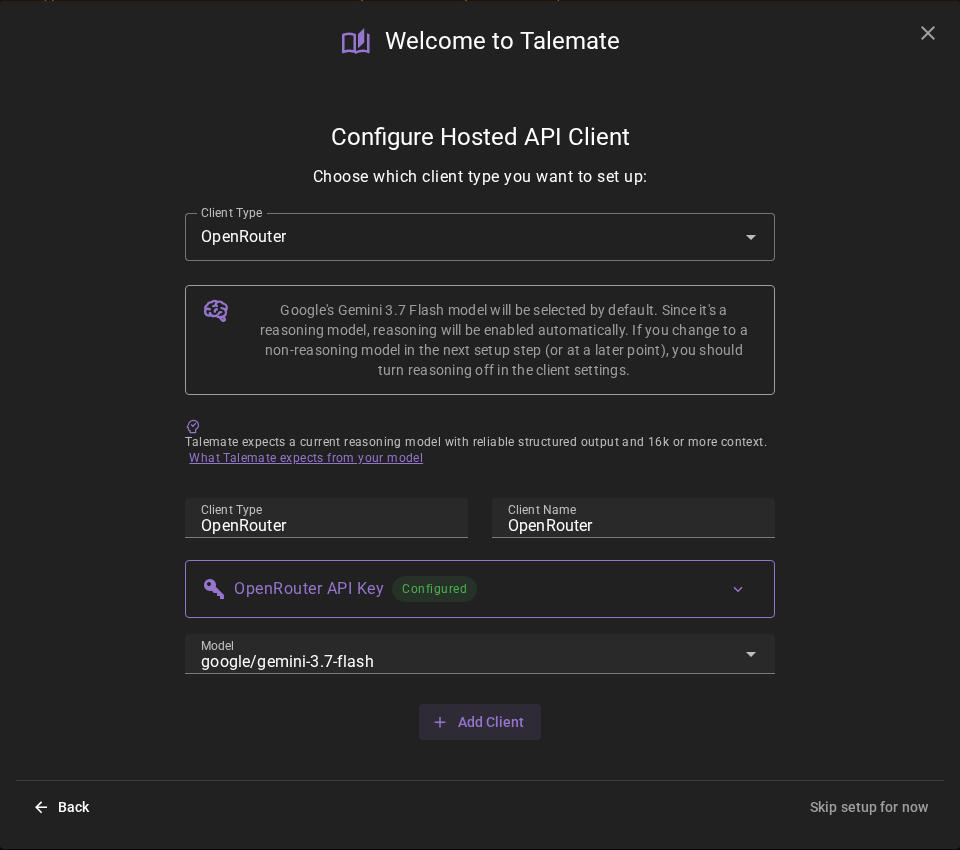
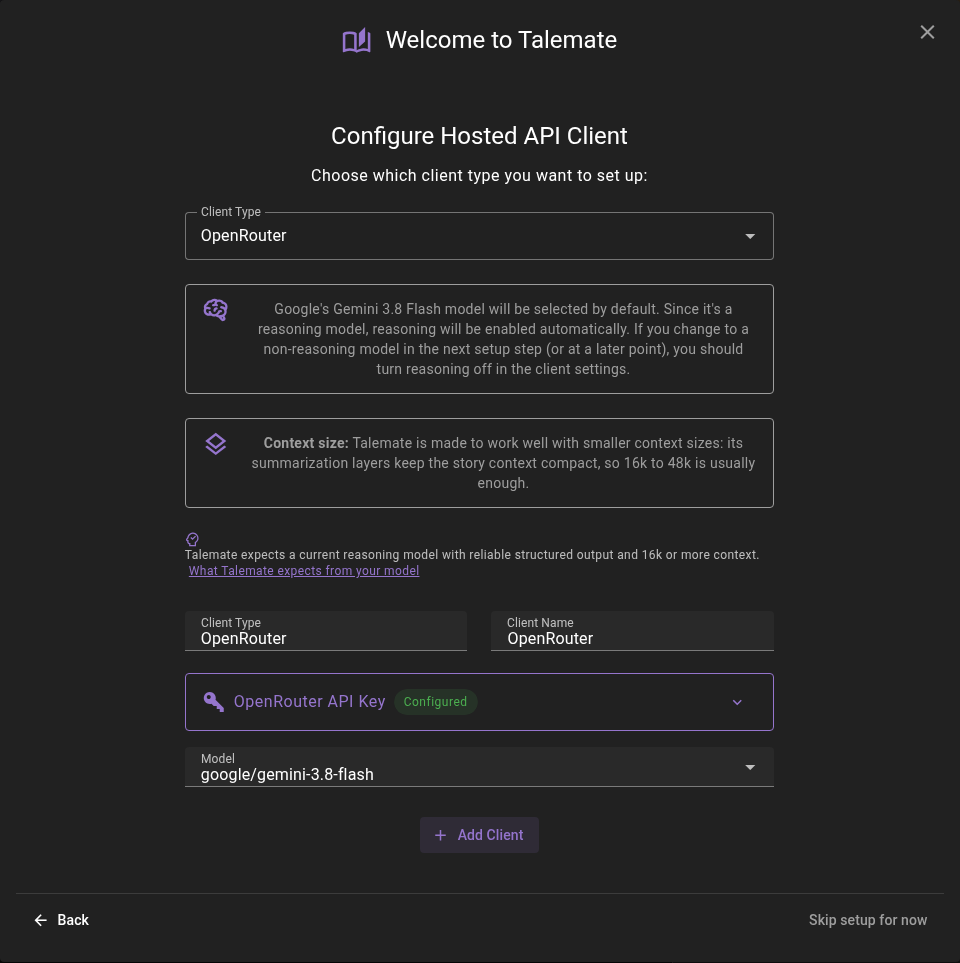
Upgrade Notes docs page generated from the changelog; trimmed release PR body; Gemini 3.8 Flash default (#927)
* Add Upgrade Notes docs page generated from the changelog build; drop the Python Scene Scripting note

* Default the OpenRouter client and setup wizard to Gemini 3.8 Flash

* Retake the setup wizard step-2 screenshot with Gemini 3.8 Flash; page H1 matches its Help index title

* Default the Google client to gemini-3.8-flash

diff --git a/talemate_frontend/src/components/OnboardingWizard.vue b/talemate_frontend/src/components/OnboardingWizard.vue
@@ -118,7 +118,7 @@
                     <v-icon icon="mdi-brain" size="small" class="mr-1" color="primary"></v-icon>
                   </template>
                   <div class="text-body-medium">
-                    Google's Gemini 3.7 Flash model will be selected by default. Since it's a reasoning model, reasoning will be enabled automatically. If you change to a non-reasoning model in the next  setup step (or at a later point), you should turn reasoning off in the client settings.
+                    Google's Gemini 3.8 Flash model will be selected by default. Since it's a reasoning model, reasoning will be enabled automatically. If you change to a non-reasoning model in the next  setup step (or at a later point), you should turn reasoning off in the client settings.
                   </div>
                 </v-alert>
               </v-col>

diff --git a/src/talemate/client/openrouter.py b/src/talemate/client/openrouter.py
@@ -76,7 +76,7 @@ IMAGE_MODELS: dict[str, "ImageModel"] = {}
 # Available providers will be populated dynamically from OpenRouter API once a valid API key is set
 AVAILABLE_PROVIDERS = []
 
-DEFAULT_MODEL = "google/gemini-3.7-flash"
+DEFAULT_MODEL = "google/gemini-3.8-flash"
 
 # Sampler parameters whose inclusion in the request payload is user-toggleable.
 # Some OpenRouter providers hard-error when these are sent for certain models

diff --git a/src/talemate/client/google.py b/src/talemate/client/google.py
@@ -53,7 +53,7 @@ ALWAYS_REASONING_MODELS = [
     "gemini-3.5",
 ]
 
-DEFAULT_MODEL = "gemini-3.7-flash"
+DEFAULT_MODEL = "gemini-3.8-flash"
 
 # Older versions communicated an incomplete setup by overwriting the client's
 # model name with this sentinel. That value could leak back into the persisted

diff --git a/docs/getting-started/upgrading.md b/docs/getting-started/upgrading.md
@@ -1,0 +1,51 @@
+<!-- Generated from the changelog build. Do not edit by hand. -->
+
+# Upgrading
+
+Each release below lists the changes that may need something from you when you update: a setting to review, a file to back up, or a value that now means something else. Releases without such changes are not listed. The newest release comes first.
+
+## 0.40.0
+
+### Scene Revisions (breaking change)
+
+Upgrading from 0.39.0 starts revisions from a current save when you first load or save it, in `<project>/data.db`. The new system ignores `<project>/changelog/` and leaves it untouched; you can delete that old directory by hand. Earlier revisions are not converted.
+
+### OpenAI Clients
+
+Review saved OpenAI settings after upgrading. GPT-5 and GPT-6 models keep Reasoning on; enable it for o-series models if needed. Sampling controls start off. For o1-mini or o1-preview, turn Send System Message off; turn Stream off if unavailable, and choose max_tokens for servers requiring it. Save your settings.
+
+### OpenRouter Reasoning
+
+The client no longer sends a reasoning budget. With Reasoning on it sends your Reasoning Effort, or asks the model to think at its own default effort; with Reasoning off it sends nothing, and models that always think use their provider's default. A saved Reasoning Tokens number from 0.39.0 no longer controls how much the model thinks: it now means Extra Completion Tokens. If you used it to control thinking, choose a Reasoning Effort instead.
+
+### Compatible Voice Servers
+
+OpenAI-compatible voice backends now request MP3 by default. Select WAV under Response format if your server cannot produce MP3.
+
+### Shared Worlds
+
+Back up older shared worlds before upgrading. Missing shared entries can be recovered from a linked scene only until 0.40 first writes that world, so load the scene holding them first. Entries intentionally removed in an older version may also return. Recover overwritten text from older revisions in 0.39.0 before upgrading, or from a backup of `<project>/changelog/`.
+
+### Scene Context Format
+
+The scene context format (Screenplay, Chat, Narrative, AI Aware) moved from the Conversation agent's Generation settings to the Summarizer agent's Scene History settings. A format set on the Conversation agent in an earlier version is not carried over: the format starts at Screenplay, so set it again in Scene History if you used another one.
+
+### Scene Backgrounds
+
+Auto Backdrop for scene backgrounds is removed: backgrounds generated for the story always become the backdrop, and Visual Library backgrounds only go to the library. Backgrounds already attached to messages keep showing.
+
+### Visual Styles
+
+Shipped visual styles moved into Talemate's template group. Back up edits to templates/world-state/visual-styles.yaml before updating; if they block the update, stash them or restore the tracked file.
+
+## 0.37.0
+
+- Default frontend port changed from 8080 to 8082. Update any bookmarks or reverse-proxy configs that pointed at `localhost:8080`. To keep the old port, set `TALEMATE_FRONTEND_PORT=8080` before launching.
+
+- Docker compose variable `FRONTEND_PORT` renamed to `TALEMATE_FRONTEND_PORT`. If you had `FRONTEND_PORT` set in a `.env` file or your shell, rename it. The new variable controls both the published host port and the port uvicorn binds inside the container.
+
+- Docker compose variable `BACKEND_PORT` renamed to `TALEMATE_BACKEND_PORT`. Same migration as above — rename in any `.env` files or shell environments. The new variable controls both the published host port and the port uvicorn binds inside the container.
+
+## 0.32.0
+
+- XTTS2 TTS support has been removed. Switch to one of the new local backends (F5-TTS, Chatterbox, Kokoro) or a remote backend (ElevenLabs, Google Gemini-TTS, OpenAI) via the voice library.

diff --git a/docs/getting-started/setup-wizard.md b/docs/getting-started/setup-wizard.md
@@ -44,7 +44,7 @@ A one-line pointer above the settings links to the [Model expectations](model-ex
 Once the client has been created, the wizard will automatically advance to the next step.
 
 !!! info "Reasoning Models"
-    If you are using a reasoning model (like DeepSeek R1 or GLM), you will need to enable reasoning in the client settings after setup. For OpenRouter users, new clients have reasoning on by default at the model's default effort, so the default model selected during the wizard (Gemini 3.7 Flash) and other reasoning models work out of the box. If you switch to a model that does not reason, you can turn reasoning off in the client settings.
+    If you are using a reasoning model (like DeepSeek R1 or GLM), you will need to enable reasoning in the client settings after setup. For OpenRouter users, new clients have reasoning on by default at the model's default effort, so the default model selected during the wizard (Gemini 3.8 Flash) and other reasoning models work out of the box. If you switch to a model that does not reason, you can turn reasoning off in the client settings.
 
 !!! info "Context size"
     Talemate is made to work well with smaller context sizes: its summarization layers keep the story context compact, so 16k to 48k is usually enough. A larger context works, but is usually not needed. See [Model expectations](model-expectations.md).

diff --git a/CHANGELOG.md b/CHANGELOG.md
@@ -34,10 +34,6 @@ The scene context format (Screenplay, Chat, Narrative, AI Aware) moved from the 
 
 Auto Backdrop for scene backgrounds is removed: backgrounds generated for the story always become the backdrop, and Visual Library backgrounds only go to the library. Backgrounds already attached to messages keep showing.
 
-#### Python Scene Scripting
-
-The legacy Python scene scripting API (a scene's `game.py`) is deprecated and no longer maintained. Build new scene logic with node modules.
-
 #### Visual Styles
 
 Shipped visual styles moved into Talemate's template group. Back up edits to templates/world-state/visual-styles.yaml before updating; if they block the update, stash them or restore the tracked file.

diff --git a/docs/user-guide/clients/types/google.md b/docs/user-guide/clients/types/google.md
@@ -32,7 +32,7 @@ A unique name for the client that makes sense to you.
 
 ##### Model
 
-Which model to use. Currently defaults to `gemini-3.7-flash`.
+Which model to use. Currently defaults to `gemini-3.8-flash`.
 
 !!! note "Talemate lags behind Google"
     When Google adds a new model, it may take a Talemate update to add it to the list of available models. However, you can always manually enter any model name in the model field if you know the exact model identifier.
